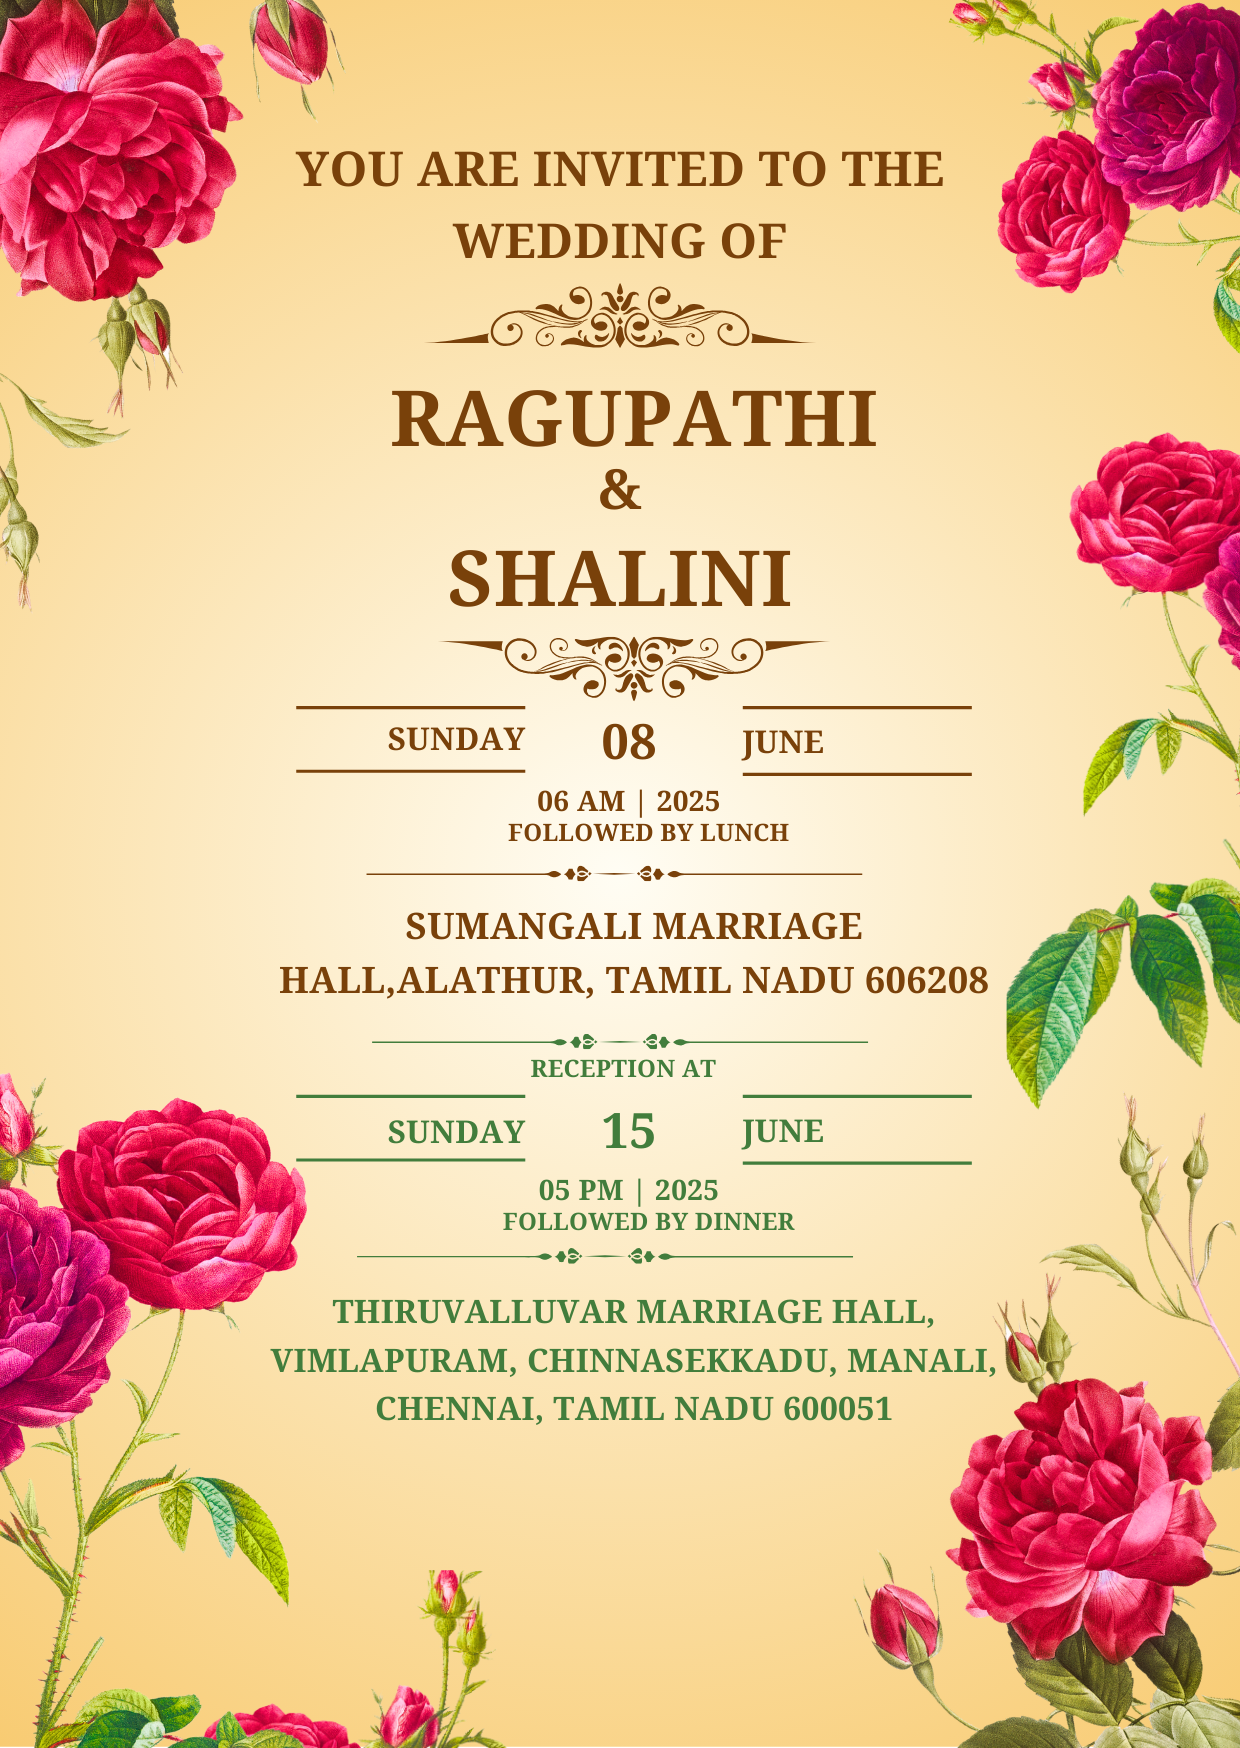
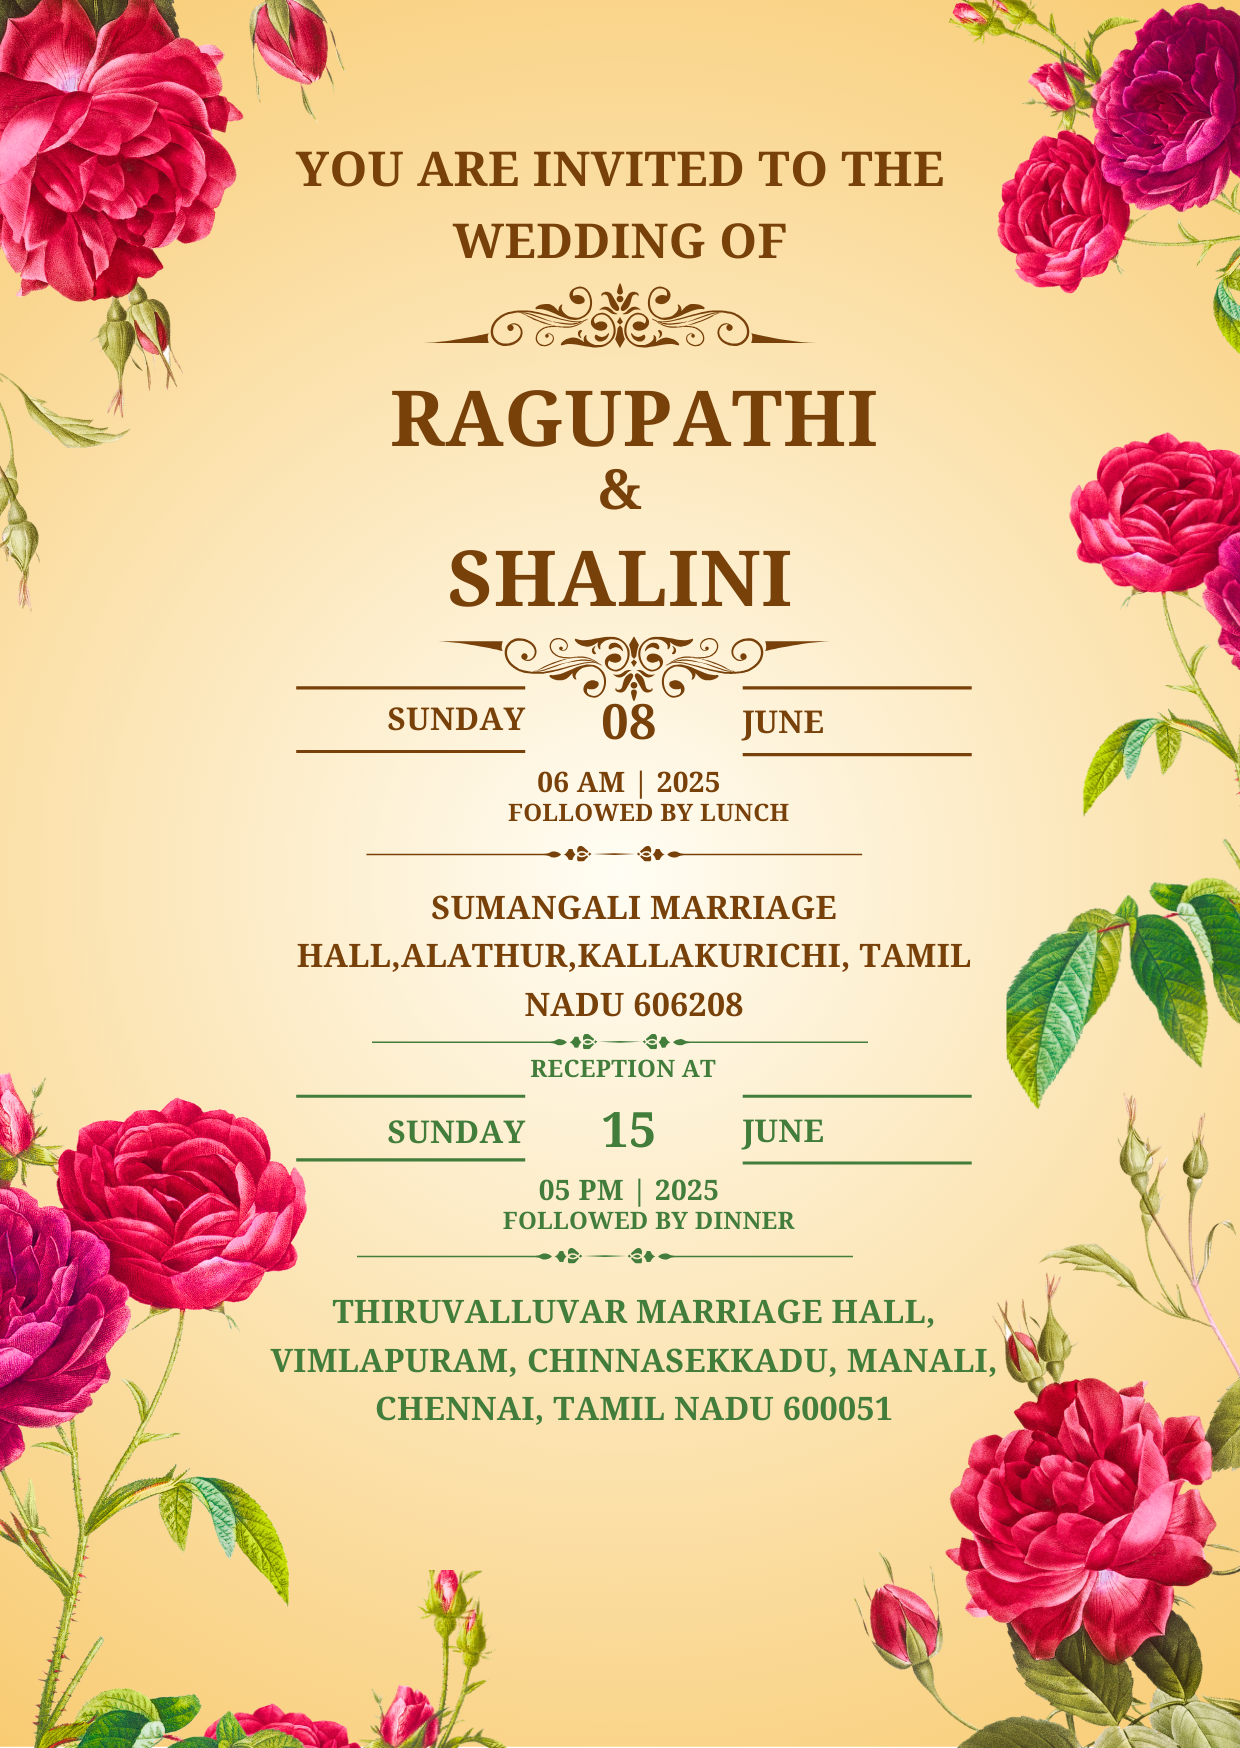
invitaion updated

Changed region(s): [[0.2145, 0.4016, 0.7968, 0.587], [0.4903, 0.6796, 0.5516, 0.7105], [0.6129, 0.6796, 0.6435, 0.7105]]

diff --git a/hakolab.site/wedding/index5ddc.html b/hakolab.site/wedding/index5ddc.html
@@ -165,7 +165,7 @@
                   <hr>
                   <p><i class="fas fa-fw fa-calendar-day"></i> Sunday, 8 June 2025</p>
                   <p><i class="fas fa-fw fa-clock"></i>06:00 AM - 07:30 AM</p>
-                  <p><i class="fas fa-fw fa-location-dot"></i> Sumangali Marriage Hall,Alathur, Tamil Nadu 606208</p>
+                  <p><i class="fas fa-fw fa-location-dot"></i> Sumangali Marriage Hall,Alathur, Kallakurichi,Tamil Nadu 606208</p>
                 </div>
 
                 <div class="col-lg-6 border my-2 rounded p-3 card-acara" data-aos="fade-left" data-aos-easing="linear" data-aos-duration="1500">
